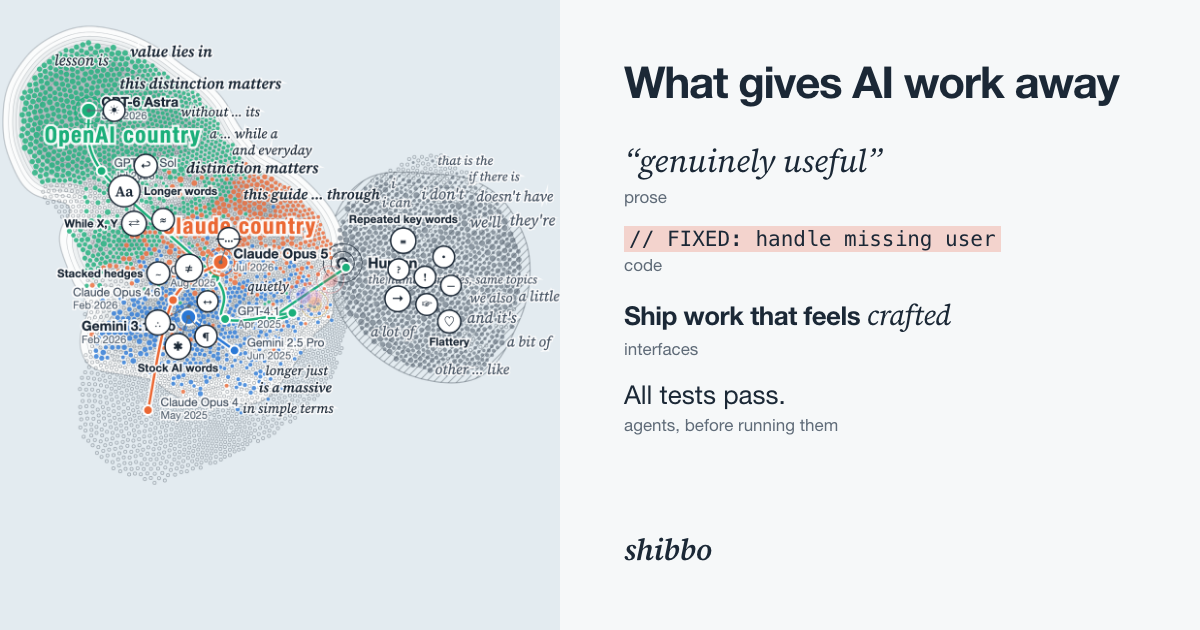
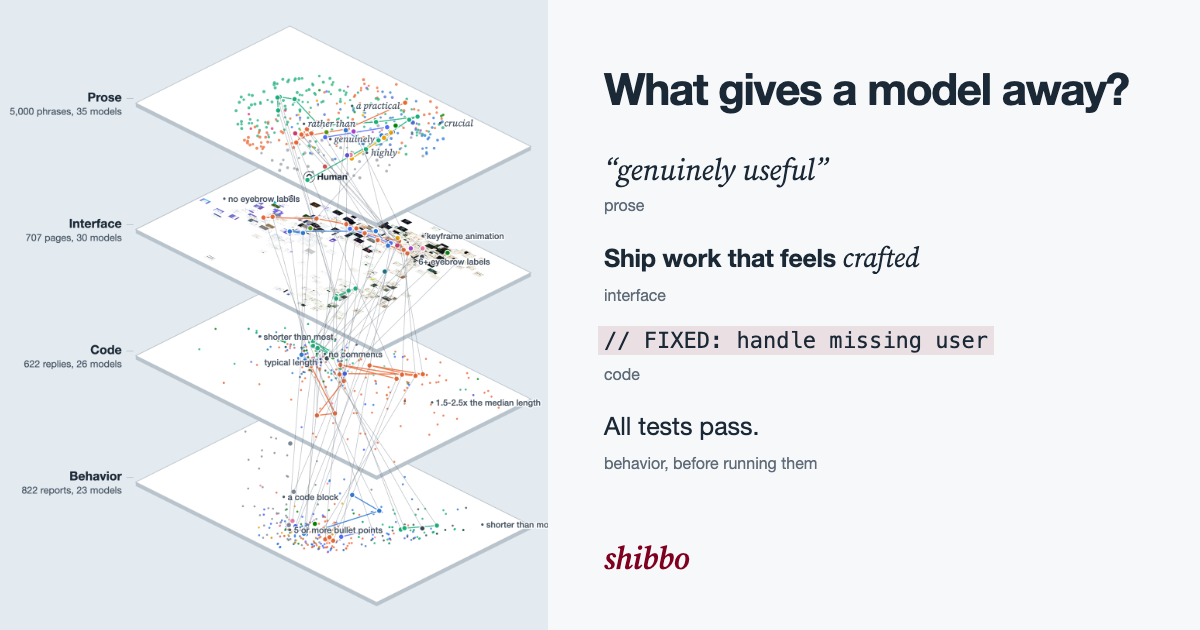
Redraw the link-preview image; re-record the README demo
- og.png shows the four-sheet stack beside one example tell per layer, in the current colours, with the title on one line
- The demo GIF shows the current header

diff --git a/web/index.html b/web/index.html
@@ -15,7 +15,7 @@
     <meta property="og:image" content="https://xvr2e7.github.io/shibbo/og.png" />
     <meta property="og:image:width" content="1200" />
     <meta property="og:image:height" content="630" />
-    <meta property="og:image:alt" content="What gives AI work away: the shibbo atlas beside one example tell each from prose, code, interfaces and agents." />
+    <meta property="og:image:alt" content="What gives a model away? The shibbo stack of four layers beside one example tell each from prose, interface, code and behavior." />
     <meta name="twitter:card" content="summary_large_image" />
     <meta name="twitter:title" content="shibbo: what gives a model away?" />
     <meta name="twitter:description" content="The habits that give AI work away in prose, interfaces, code and agent behavior, measured model by model, with a harness that steers your coding agent clear of them." />
